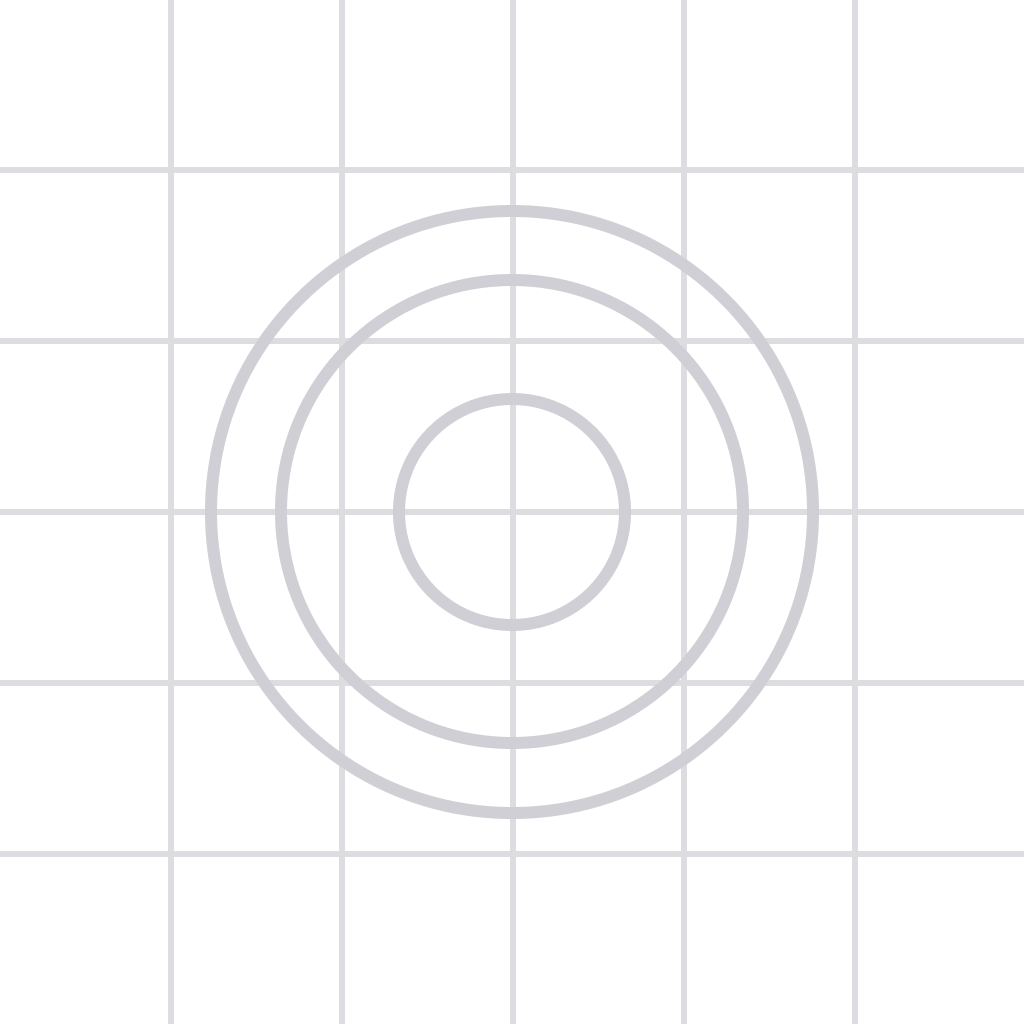
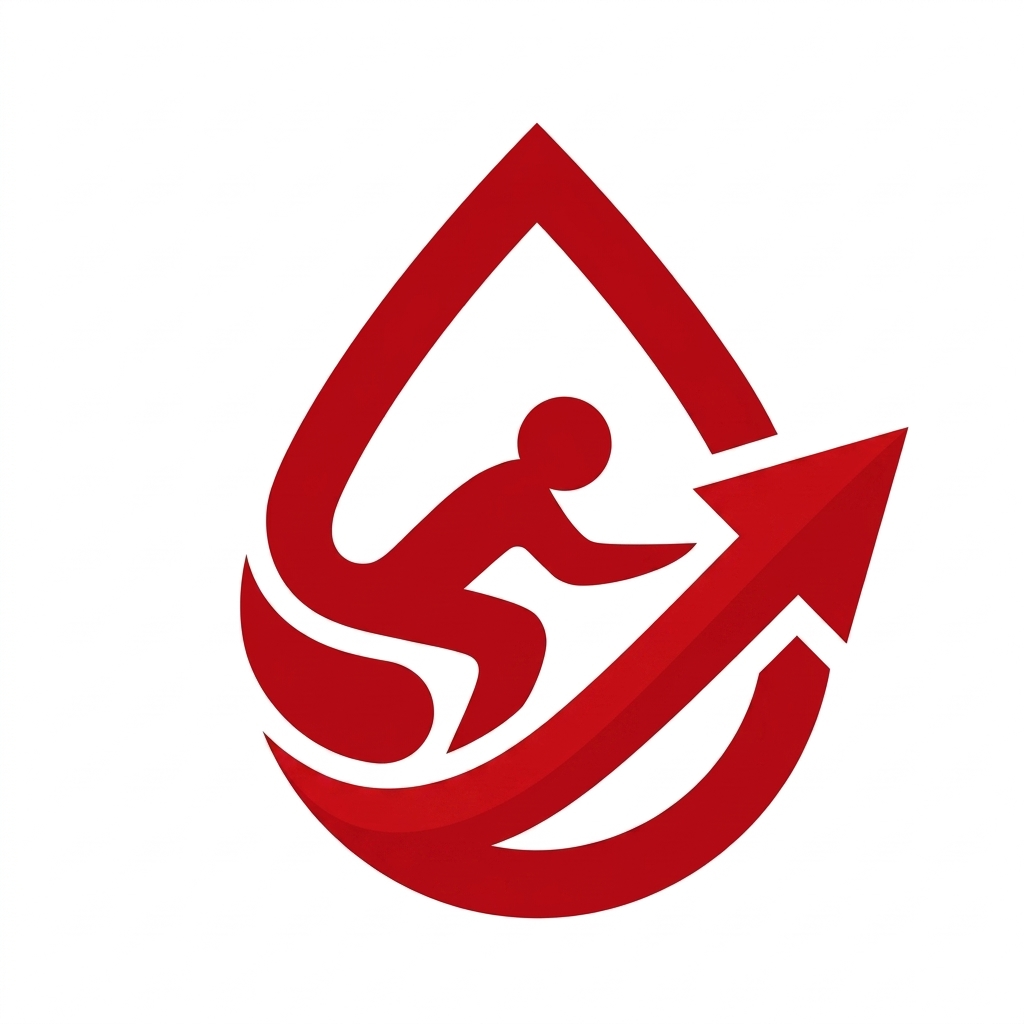
fix(api): resolve URL from Constants.extra (baked in binary) — eliminates localhost fallback in APK builds

Changed region(s): [[0.0, 0.0, 1.0, 1.0], [0.4062, 0.4062, 0.4375, 0.4375]]

diff --git a/mobile/src/lib/api.js b/mobile/src/lib/api.js
@@ -1,10 +1,16 @@
 import * as storage from './storage';
+import Constants from 'expo-constants';
 
-const DEFAULT_API_BASE_URL = 'http://localhost:3000';
+// Priority:
+// 1. app.json extra.apiBaseUrl  — baked into the binary at build time (most reliable)
+// 2. EXPO_PUBLIC_API_BASE_URL   — Metro env var replacement (works when set correctly)
+// 3. Hardcoded Railway URL      — final fallback, never localhost
+const RAILWAY_URL = 'https://redquest-production.up.railway.app';
 
 export const API_BASE_URL =
+  Constants.expoConfig?.extra?.apiBaseUrl ||
   (typeof process !== 'undefined' && process.env?.EXPO_PUBLIC_API_BASE_URL) ||
-  DEFAULT_API_BASE_URL;
+  RAILWAY_URL;
 
 const AUTH_TOKEN_KEY = 'redquest.authToken';
 